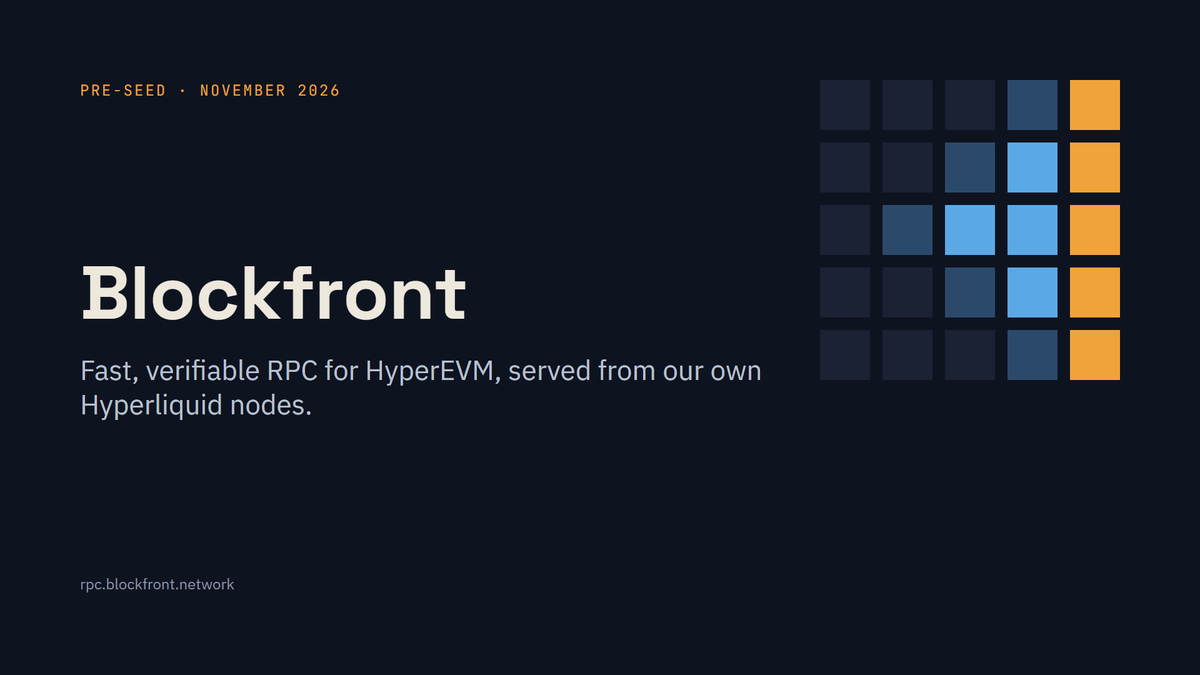
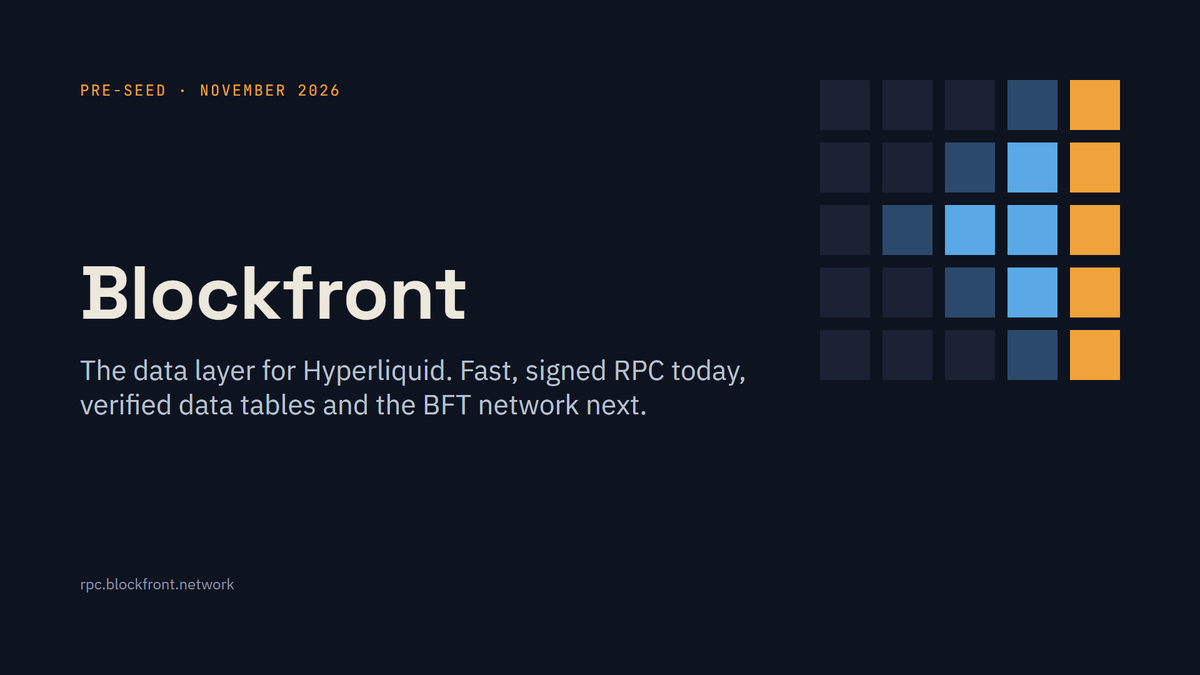
Data layer story, market, money, BFT

Changed region(s): [[0.0617, 0.5289, 0.6475, 0.6222]]

diff --git a/index.html b/index.html
@@ -40,7 +40,7 @@ html,body{margin:0;height:100%;background:#0B0F19;color:#EDE8DC;overflow:hidden}
 </style>
 </head>
 <body>
-<main id="viewport" aria-label="Blockfront pitch deck, 14 slides">
+<main id="viewport" aria-label="Blockfront pitch deck, 19 slides">
 <div id="stage">
 <section class="slide" id="s-cover" data-transition="fade" style="background:#0E1320;color:#EDE8DC;font-family:'IBM Plex Sans', Arial, sans-serif;padding:128px;display:flex;flex-direction:column;justify-content:space-between">
 <div style="position:absolute;left:1312px;top:128px;width:480px;height:480px;display:grid;grid-template-columns:repeat(5, 80px);grid-template-rows:repeat(5, 80px);gap:20px">
@@ -53,7 +53,7 @@ html,body{margin:0;height:100%;background:#0B0F19;color:#EDE8DC;overflow:hidden}
 <p style="font-family:'JetBrains Mono', 'Courier New', monospace;font-size:24px;letter-spacing:3px;color:#F0A33A">PRE-SEED · NOVEMBER 2026</p>
 <div style="display:flex;flex-direction:column;gap:32px;max-width:1100px">
 <h1 style="font-family:'Space Grotesk', Arial, sans-serif;font-size:120px;font-weight:700;line-height:1.05;color:#EDE8DC">Blockfront</h1>
-<p style="font-size:44px;line-height:1.25;color:#B9C1CF">Fast, verifiable RPC for HyperEVM, served from our own Hyperliquid nodes.</p>
+<p style="font-size:44px;line-height:1.25;color:#B9C1CF">The data layer for Hyperliquid. Fast, signed RPC today, verified data tables and the BFT network next.</p>
 </div>
 <p style="font-size:24px;color:#8A93A6">rpc.blockfront.network</p>
 
@@ -73,7 +73,7 @@ html,body{margin:0;height:100%;background:#0B0F19;color:#EDE8DC;overflow:hidden}
 </div>
 <div style="flex:1;display:flex;flex-direction:column;gap:16px;background:#FBF9F4;padding:40px;border:2px solid #DED7C8;border-radius:16px">
 <h3 style="font-family:'Space Grotesk', Arial, sans-serif;font-size:44px;font-weight:700;color:#121826">Stale, silently</h3>
-<p style="font-size:32px;line-height:1.4;color:#4A5263">Nothing tells you an answer is old. Confetti’s keeper ran for 11 hours on a node that had fallen behind before anyone noticed.</p>
+<p style="font-size:32px;line-height:1.4;color:#4A5263">Nothing tells you an answer is old, which node it came from, or whether another node would agree.</p>
 </div>
 </div>
 <div style="position:absolute;left:128px;right:128px;bottom:64px;display:flex;justify-content:space-between">
@@ -106,6 +106,29 @@ html,body{margin:0;height:100%;background:#0B0F19;color:#EDE8DC;overflow:hidden}
 </div>
 
 </section>
+<section class="slide" id="s-whynow" data-transition="fade" style="background:#F3EFE6;color:#121826;font-family:'IBM Plex Sans', Arial, sans-serif;padding:128px 128px 160px;display:flex;flex-direction:column;gap:56px">
+<h2 style="font-family:'Space Grotesk', Arial, sans-serif;font-size:72px;font-weight:700;line-height:1.1;color:#121826">Hyperliquid is where on-chain trading happens now</h2>
+<div style="display:flex;gap:32px">
+<div style="flex:1;display:flex;flex-direction:column;gap:12px;background:#121826;padding:48px 40px;border-radius:16px">
+<p style="font-family:'JetBrains Mono', 'Courier New', monospace;font-size:96px;font-weight:600;line-height:1.05;color:#F0A33A">$633B</p>
+<p style="font-size:28px;line-height:1.4;color:#B9C1CF">in perps traded on Hyperliquid in Q1 2026</p>
+</div>
+<div style="flex:1;display:flex;flex-direction:column;gap:12px;background:#121826;padding:48px 40px;border-radius:16px">
+<p style="font-family:'JetBrains Mono', 'Courier New', monospace;font-size:96px;font-weight:600;line-height:1.05;color:#F0A33A">$5.9B</p>
+<p style="font-size:28px;line-height:1.4;color:#B9C1CF">locked on the chain (June 2026)</p>
+</div>
+<div style="flex:1;display:flex;flex-direction:column;gap:12px;background:#121826;padding:48px 40px;border-radius:16px">
+<p style="font-family:'JetBrains Mono', 'Courier New', monospace;font-size:96px;font-weight:600;line-height:1.05;color:#5AA9E6">36%</p>
+<p style="font-size:28px;line-height:1.4;color:#B9C1CF">of all perp DEX volume, trailing 30 days (June 2026)</p>
+</div>
+</div>
+<p style="font-size:32px;line-height:1.4;color:#4A5263">HyperEVM is the programmable side of that chain. Every app built on it needs a fast RPC and clean data. That’s our market, and it’s growing with the chain.</p>
+<div style="position:absolute;left:128px;right:128px;bottom:64px;display:flex;justify-content:space-between">
+<p style="font-size:24px;color:#5E6575">Sources: DefiLlama via CoinLaw (TVL and share, June 2026); Q1 2026 volume as widely reported</p>
+<p style="font-size:24px;color:#5E6575">4</p>
+</div>
+
+</section>
 <section class="slide" id="s-how" data-transition="fade" style="background:#F3EFE6;color:#121826;font-family:'IBM Plex Sans', Arial, sans-serif;padding:128px 128px 160px;display:flex;flex-direction:column;gap:40px">
 <h2 style="font-family:'Space Grotesk', Arial, sans-serif;font-size:72px;font-weight:700;line-height:1.1;color:#121826">What happens to a request</h2>
 <div style="position:relative;width:1664px;height:520px">
@@ -131,10 +154,10 @@ html,body{margin:0;height:100%;background:#0B0F19;color:#EDE8DC;overflow:hidden}
 <p style="font-size:24px;color:#4A5263">rank 2, backup only</p>
 </div>
 </div>
-<p style="font-size:28px;line-height:1.4;color:#4A5263">The same nodes also run transformers (slide 7). Every 1,000 blocks each one publishes a fingerprint of its data, and we only serve data from nodes whose fingerprints match.</p>
+<p style="font-size:28px;line-height:1.4;color:#4A5263">The same nodes also run transformers (slide 8). Every 1,000 blocks each one publishes a fingerprint of its data, and we only serve data from nodes whose fingerprints match.</p>
 <div style="position:absolute;left:128px;right:128px;bottom:64px;display:flex;justify-content:space-between">
 <p style="font-size:24px;color:#5E6575">How it’s set up today, Nov 3</p>
-<p style="font-size:24px;color:#5E6575">4</p>
+<p style="font-size:24px;color:#5E6575">5</p>
 </div>
 
 </section>
@@ -162,7 +185,7 @@ html,body{margin:0;height:100%;background:#0B0F19;color:#EDE8DC;overflow:hidden}
 </div>
 <div style="position:absolute;left:128px;right:128px;bottom:64px;display:flex;justify-content:space-between">
 <p style="font-size:24px;color:#8A93A6">Measured on our Tokyo box, Nov 3, 03:13 to 21:55 UTC. Latency is measured on the box itself; real users add their own network time to both.</p>
-<p style="font-size:24px;color:#8A93A6">5</p>
+<p style="font-size:24px;color:#8A93A6">6</p>
 </div>
 
 </section>
@@ -195,7 +218,7 @@ html,body{margin:0;height:100%;background:#0B0F19;color:#EDE8DC;overflow:hidden}
 </div>
 <div style="position:absolute;left:128px;right:128px;bottom:64px;display:flex;justify-content:space-between">
 <p style="font-size:24px;color:#5E6575">Live endpoint, Nov 3 (signature shortened)</p>
-<p style="font-size:24px;color:#5E6575">6</p>
+<p style="font-size:24px;color:#5E6575">7</p>
 </div>
 
 </section>
@@ -221,6 +244,29 @@ html,body{margin:0;height:100%;background:#0B0F19;color:#EDE8DC;overflow:hidden}
 </div>
 </div>
 <p style="font-size:32px;line-height:1.4;color:#B9C1CF">For confetti, positions, fills, liquidations, deposits and points are one query away. Rebuilding the same data from raw logs used to take hours.</p>
+
+</section>
+<section class="slide" id="s-datamarket" data-transition="fade" style="background:#0E1320;color:#EDE8DC;font-family:'IBM Plex Sans', Arial, sans-serif;padding:128px 128px 160px;display:flex;flex-direction:column;gap:56px">
+<h2 style="font-family:'Space Grotesk', Arial, sans-serif;font-size:72px;font-weight:700;line-height:1.1;color:#EDE8DC">Blockchain data is already a billion-dollar category</h2>
+<div style="display:flex;gap:32px">
+<div style="flex:1;display:flex;flex-direction:column;gap:12px;background:#161D2E;padding:48px 40px;border-radius:16px">
+<p style="font-family:'JetBrains Mono', 'Courier New', monospace;font-size:96px;font-weight:600;line-height:1.05;color:#F0A33A">$1B</p>
+<p style="font-size:28px;line-height:1.4;color:#B9C1CF">Dune’s valuation at its $69.4M Series B</p>
+</div>
+<div style="flex:1;display:flex;flex-direction:column;gap:12px;background:#161D2E;padding:48px 40px;border-radius:16px">
+<p style="font-family:'JetBrains Mono', 'Courier New', monospace;font-size:96px;font-weight:600;line-height:1.05;color:#F0A33A">6.49B</p>
+<p style="font-size:28px;line-height:1.4;color:#B9C1CF">queries served by The Graph in a single quarter</p>
+</div>
+<div style="flex:1;display:flex;flex-direction:column;gap:12px;background:#161D2E;padding:48px 40px;border-radius:16px">
+<p style="font-family:'JetBrains Mono', 'Courier New', monospace;font-size:96px;font-weight:600;line-height:1.05;color:#5AA9E6">$20M</p>
+<p style="font-size:28px;line-height:1.4;color:#B9C1CF">Goldsky’s seed round for blockchain indexing</p>
+</div>
+</div>
+<p style="font-size:32px;line-height:1.4;color:#B9C1CF">Every HyperEVM app rebuilds the same tables: trades, positions, balances, deposits. We build them once, check them on every node, and sell them by the query. <span style="color:#EDE8DC">That’s the bigger business, and on HyperEVM it’s still up for grabs.</span></p>
+<div style="position:absolute;left:128px;right:128px;bottom:64px;display:flex;justify-content:space-between">
+<p style="font-size:24px;color:#8A93A6">Sources: The Block (Dune, Feb 2022); Messari via press (The Graph, Q2 2025); BetaKit (Goldsky, Sept 2022)</p>
+<p style="font-size:24px;color:#8A93A6">9</p>
+</div>
 
 </section>
 <section class="slide" id="s-caught" data-transition="fade" style="background:#F0A33A;color:#121826;font-family:'IBM Plex Sans', Arial, sans-serif;padding:128px;display:flex;flex-direction:column;justify-content:space-between">
@@ -274,7 +320,7 @@ html,body{margin:0;height:100%;background:#0B0F19;color:#EDE8DC;overflow:hidden}
 </div>
 <div style="position:absolute;left:128px;right:128px;bottom:64px;display:flex;justify-content:space-between">
 <p style="font-size:24px;color:#8A93A6">Indexed from block 48,404,443, when confetti’s first contract went live</p>
-<p style="font-size:24px;color:#8A93A6">9</p>
+<p style="font-size:24px;color:#8A93A6">11</p>
 </div>
 
 </section>
@@ -292,7 +338,7 @@ html,body{margin:0;height:100%;background:#0B0F19;color:#EDE8DC;overflow:hidden}
 </div>
 <div style="position:absolute;left:128px;right:128px;bottom:64px;display:flex;justify-content:space-between">
 <p style="font-size:24px;color:#5E6575">*Demo numbers. These screenshots use test data, not real usage.</p>
-<p style="font-size:24px;color:#5E6575">10</p>
+<p style="font-size:24px;color:#5E6575">12</p>
 </div>
 
 </section>
@@ -314,26 +360,115 @@ html,body{margin:0;height:100%;background:#0B0F19;color:#EDE8DC;overflow:hidden}
 <p style="font-size:24px;line-height:1.4;color:#4A5263">“All” means realtime, archive and transformers. A plan runs 30 days per payment, and paying again extends it.</p>
 <div style="position:absolute;left:128px;right:128px;bottom:64px;display:flex;justify-content:space-between">
 <p style="font-size:24px;color:#5E6575">Competitor prices from chainstack.com and quicknode.com pricing pages, Nov 2026</p>
-<p style="font-size:24px;color:#5E6575">11</p>
+<p style="font-size:24px;color:#5E6575">13</p>
+</div>
+
+</section>
+<section class="slide" id="s-money" data-transition="fade" style="background:#F3EFE6;color:#121826;font-family:'IBM Plex Sans', Arial, sans-serif;padding:128px 128px 160px;display:flex;flex-direction:column;gap:40px">
+<h2 style="font-family:'Space Grotesk', Arial, sans-serif;font-size:72px;font-weight:700;line-height:1.1;color:#121826">How Blockfront makes money</h2>
+<div style="display:flex;gap:48px">
+<div style="flex:1;display:flex;flex-direction:column;gap:8px;border-left:6px solid #F0A33A;padding:4px 0 4px 28px">
+<h3 style="font-family:'Space Grotesk', Arial, sans-serif;font-size:40px;font-weight:700;color:#121826">RPC plans</h3>
+<p style="font-size:28px;line-height:1.4;color:#4A5263">Live today: 29, 149 and 399 USDC a month, paid on-chain from the customer’s wallet.</p>
+</div>
+<div style="flex:1;display:flex;flex-direction:column;gap:8px;border-left:6px solid #5AA9E6;padding:4px 0 4px 28px">
+<h3 style="font-family:'Space Grotesk', Arial, sans-serif;font-size:40px;font-weight:700;color:#121826">Data queries</h3>
+<p style="font-size:28px;line-height:1.4;color:#4A5263">Every query on a transformer is paid. The publisher, the nodes serving it and Blockfront each take a share.</p>
+</div>
+</div>
+<table style="font-family:'IBM Plex Sans', Arial, sans-serif;font-size:28px;color:#121826">
+<tr style="background:#121826"><th style="width:20%;text-align:right;color:#EDE8DC">Paying teams</th><th style="width:32%;text-align:right;color:#EDE8DC">Builder / Pro / Scale</th><th style="width:22%;text-align:right;color:#EDE8DC">Monthly</th><th style="width:26%;text-align:right;color:#EDE8DC">Yearly</th></tr>
+<tr style="background:#FBF9F4"><td style="text-align:right">100</td><td style="text-align:right">60 / 30 / 10</td><td style="text-align:right">$10,200</td><td style="text-align:right">$122,400</td></tr>
+<tr style="background:#F3EFE6"><td style="text-align:right">1,000</td><td style="text-align:right">600 / 300 / 100</td><td style="text-align:right">$102,000</td><td style="text-align:right">$1.22M</td></tr>
+<tr style="background:#FBF9F4"><td style="text-align:right">5,000</td><td style="text-align:right">3,000 / 1,500 / 500</td><td style="text-align:right">$510,000</td><td style="text-align:right">$6.12M</td></tr>
+</table>
+<p style="font-size:28px;line-height:1.4;color:#4A5263">That’s RPC plans alone, at today’s prices. <span style="color:#121826">Data queries come on top, and they grow with every app that ships on HyperEVM.</span></p>
+<div style="position:absolute;left:128px;right:128px;bottom:64px;display:flex;justify-content:space-between">
+<p style="font-size:24px;color:#5E6575">Illustrative scenarios at today’s plan prices, not forecasts</p>
+<p style="font-size:24px;color:#5E6575">14</p>
+</div>
+
+</section>
+<section class="slide" id="s-token" data-transition="fade" style="background:#0E1320;color:#EDE8DC;font-family:'IBM Plex Sans', Arial, sans-serif;padding:128px 128px 160px;display:flex;flex-direction:column;gap:48px">
+<div style="display:flex;flex-direction:column;gap:16px">
+<h2 style="font-family:'Space Grotesk', Arial, sans-serif;font-size:72px;font-weight:700;line-height:1.1;color:#EDE8DC">BFT: the token that keeps the network honest</h2>
+<p style="font-size:32px;line-height:1.4;color:#B9C1CF">Customers keep paying in USDC. BFT is what everyone who runs, publishes or vouches for data puts on the line.</p>
+</div>
+<div style="display:grid;grid-template-columns:1fr 1fr;gap:40px 64px">
+<div style="display:flex;flex-direction:column;gap:10px;border-top:4px solid #F0A33A;padding:24px 0 0 0">
+<h3 style="font-size:36px;font-weight:600;color:#EDE8DC">Stake to run a node</h3>
+<p style="font-size:28px;line-height:1.4;color:#B9C1CF">Operators stake BFT to serve traffic and get paid for it. Stale or wrong answers cost them stake.</p>
+</div>
+<div style="display:flex;flex-direction:column;gap:10px;border-top:4px solid #F0A33A;padding:24px 0 0 0">
+<h3 style="font-size:36px;font-weight:600;color:#EDE8DC">Stake to publish data</h3>
+<p style="font-size:28px;line-height:1.4;color:#B9C1CF">Listing a transformer takes a BFT stake, so junk costs money to post.</p>
+</div>
+<div style="display:flex;flex-direction:column;gap:10px;border-top:4px solid #5AA9E6;padding:24px 0 0 0">
+<h3 style="font-size:36px;font-weight:600;color:#EDE8DC">Curate and earn</h3>
+<p style="font-size:28px;line-height:1.4;color:#B9C1CF">Back the transformers you trust with BFT and share in the query fees they bring in.</p>
+</div>
+<div style="display:flex;flex-direction:column;gap:10px;border-top:4px solid #5AA9E6;padding:24px 0 0 0">
+<h3 style="font-size:36px;font-weight:600;color:#EDE8DC">Settle disputes</h3>
+<p style="font-size:28px;line-height:1.4;color:#B9C1CF">When nodes disagree, the fingerprints decide, and the side that was wrong is slashed.</p>
+</div>
+</div>
+<div style="position:absolute;left:128px;right:128px;bottom:64px;display:flex;justify-content:space-between">
+<p style="font-size:24px;color:#8A93A6">BFT is not live yet. Design draft; final terms with counsel.</p>
+<p style="font-size:24px;color:#8A93A6">15</p>
+</div>
+
+</section>
+<section class="slide" id="s-tokenflow" data-transition="fade" style="background:#F3EFE6;color:#121826;font-family:'IBM Plex Sans', Arial, sans-serif;padding:128px 128px 160px;display:flex;flex-direction:column;gap:40px">
+<h2 style="font-family:'Space Grotesk', Arial, sans-serif;font-size:72px;font-weight:700;line-height:1.1;color:#121826">Every query feeds BFT</h2>
+<div style="position:relative;width:1664px;height:420px">
+<svg class="conn" width="1664" height="420" viewBox="0 0 1664 420" aria-hidden="true"><defs><marker id="ah0" viewBox="0 0 10 10" refX="9" refY="5" markerWidth="5" markerHeight="5" orient="auto-start-reverse"><path d="M0,0 L10,5 L0,10 z" fill="#121826"/></marker><marker id="ah1" viewBox="0 0 10 10" refX="9" refY="5" markerWidth="5" markerHeight="5" orient="auto-start-reverse"><path d="M0,0 L10,5 L0,10 z" fill="#F0A33A"/></marker></defs><path d="M340.0,210.0 L480.0,210.0" fill="none" stroke="#121826" stroke-width="3" marker-end="url(#ah0)"/><path d="M780.0,190.0 L850.0,190.0 L850.0,46.0 L920.0,46.0" fill="none" stroke="#121826" stroke-width="3" marker-end="url(#ah0)"/><path d="M780.0,205.0 L850.0,205.0 L850.0,154.0 L920.0,154.0" fill="none" stroke="#121826" stroke-width="3" marker-end="url(#ah0)"/><path d="M780.0,215.0 L850.0,215.0 L850.0,262.0 L920.0,262.0" fill="none" stroke="#121826" stroke-width="3" marker-end="url(#ah0)"/><path d="M780.0,230.0 L850.0,230.0 L850.0,370.0 L920.0,370.0" fill="none" stroke="#F0A33A" stroke-width="3" marker-end="url(#ah1)"/></svg>
+<div style="position:absolute;left:0px;top:150px;width:340px;height:120px;background:#FBF9F4;border:2px solid #DED7C8;border-radius:16px;padding:24px;display:flex;flex-direction:column;justify-content:center;gap:6px">
+<p style="font-family:'Space Grotesk', Arial, sans-serif;font-size:32px;font-weight:700;color:#121826">Apps pay in USDC</p>
+<p style="font-size:24px;color:#4A5263">for RPC and data</p>
+</div>
+<div style="position:absolute;left:480px;top:140px;width:300px;height:140px;background:#121826;border-radius:16px;padding:28px;display:flex;flex-direction:column;justify-content:center;gap:6px">
+<p style="font-family:'Space Grotesk', Arial, sans-serif;font-size:32px;font-weight:700;color:#EDE8DC">Query fee</p>
+<p style="font-size:24px;color:#B9C1CF">split on every call</p>
+</div>
+<div style="position:absolute;left:920px;top:0px;width:744px;height:92px;background:#FBF9F4;border:2px solid #DED7C8;border-radius:14px;padding:0 28px;display:flex;flex-direction:row;align-items:center;gap:20px">
+<p style="font-family:'Space Grotesk', Arial, sans-serif;font-size:30px;font-weight:700;color:#121826">Publisher</p>
+<p style="font-size:26px;color:#4A5263">for building the transformer</p>
+</div>
+<div style="position:absolute;left:920px;top:108px;width:744px;height:92px;background:#FBF9F4;border:3px solid #5AA9E6;border-radius:14px;padding:0 28px;display:flex;flex-direction:row;align-items:center;gap:20px">
+<p style="font-family:'Space Grotesk', Arial, sans-serif;font-size:30px;font-weight:700;color:#121826">Operators</p>
+<p style="font-size:26px;color:#4A5263">staked BFT, for serving it</p>
+</div>
+<div style="position:absolute;left:920px;top:216px;width:744px;height:92px;background:#FBF9F4;border:3px solid #5AA9E6;border-radius:14px;padding:0 28px;display:flex;flex-direction:row;align-items:center;gap:20px">
+<p style="font-family:'Space Grotesk', Arial, sans-serif;font-size:30px;font-weight:700;color:#121826">Curators</p>
+<p style="font-size:26px;color:#4A5263">staked BFT, for backing it</p>
+</div>
+<div style="position:absolute;left:920px;top:324px;width:744px;height:92px;background:#121826;border:3px solid #F0A33A;border-radius:14px;padding:0 28px;display:flex;flex-direction:row;align-items:center;gap:20px">
+<p style="font-family:'Space Grotesk', Arial, sans-serif;font-size:30px;font-weight:700;color:#F0A33A">Burn</p>
+<p style="font-size:26px;color:#EDE8DC">a slice buys BFT on the market and burns it</p>
+</div>
+</div>
+<p style="font-size:32px;line-height:1.4;color:#4A5263">More apps mean more queries. More queries mean more fees to the people staking BFT, more stake needed to serve the traffic, and more BFT burned. <span style="color:#121826">Demand for the token grows with real use.</span></p>
+<div style="position:absolute;left:128px;right:128px;bottom:64px;display:flex;justify-content:space-between">
+<p style="font-size:24px;color:#5E6575">BFT is not live. Design draft, not an offer of tokens. Precedent: The Graph burns 1% of query fees.</p>
+<p style="font-size:24px;color:#5E6575">16</p>
 </div>
 
 </section>
 <section class="slide" id="s-landscape" data-transition="fade" style="background:#0E1320;color:#EDE8DC;font-family:'IBM Plex Sans', Arial, sans-serif;padding:128px 128px 160px;display:flex;flex-direction:column;gap:48px">
-<div style="display:flex;flex-direction:column;gap:16px">
 <h2 style="font-family:'Space Grotesk', Arial, sans-serif;font-size:72px;font-weight:700;line-height:1.1;color:#EDE8DC">Who else is in this space</h2>
-</div>
-<table style="font-family:'IBM Plex Sans', Arial, sans-serif;font-size:30px;color:#B9C1CF">
-<tr style="background:#161D2E"><th style="width:26%;color:#EDE8DC">Who</th><th style="width:74%;color:#EDE8DC">What they do</th></tr>
-<tr><td style="color:#EDE8DC">The Graph</td><td>The big indexing marketplace (subgraphs, indexers, curators, delegators)</td></tr>
-<tr><td style="color:#EDE8DC">SubQuery</td><td>Indexing network with its own token</td></tr>
-<tr><td style="color:#EDE8DC">Goldsky, Envio</td><td>Hosted indexing, no open marketplace</td></tr>
-<tr><td style="color:#EDE8DC">Pocket, Lava</td><td>Decentralized RPC, no indexing</td></tr>
-<tr style="background:#2A2416"><td style="color:#F0A33A">Blockfront</td><td style="color:#EDE8DC">RPC and transformers on the same HyperEVM nodes, signed, paid in USDC</td></tr>
+<table style="font-family:'IBM Plex Sans', Arial, sans-serif;font-size:26px;color:#B9C1CF">
+<tr style="background:#161D2E"><th style="width:27%;color:#EDE8DC">Who</th><th style="width:43%;color:#EDE8DC">What they do</th><th style="width:30%;color:#EDE8DC">On HyperEVM</th></tr>
+<tr><td style="color:#EDE8DC">Chainstack, QuickNode, dRPC</td><td>Hosted RPC, billed by credits or requests</td><td>Yes, one chain of many</td></tr>
+<tr><td style="color:#EDE8DC">Goldsky, Envio</td><td>Hosted indexing, no open marketplace</td><td>Yes, one chain of many</td></tr>
+<tr><td style="color:#EDE8DC">SubQuery</td><td>Indexing network with its own token</td><td>Yes, one chain of many</td></tr>
+<tr><td style="color:#EDE8DC">The Graph</td><td>The big indexing marketplace</td><td>Not that we could find</td></tr>
+<tr><td style="color:#EDE8DC">Pocket, Lava</td><td>Decentralized RPC, no indexing</td><td>Lava yes, Pocket not found</td></tr>
+<tr style="background:#2A2416"><td style="color:#F0A33A">Blockfront</td><td style="color:#EDE8DC">RPC and indexing on the same nodes, signed</td><td style="color:#F0A33A">HyperEVM only, our own hl-nodes</td></tr>
 </table>
-<p style="font-size:28px;line-height:1.4;color:#B9C1CF">The Graph proved people will pay for indexed data. We’re betting HyperEVM teams want it from the same nodes that serve their RPC.</p>
+<p style="font-size:28px;line-height:1.4;color:#B9C1CF">Everyone on this list added HyperEVM as one chain among dozens. We only do HyperEVM: our own Hyperliquid nodes, Tokyo first, every response signed.</p>
 <div style="position:absolute;left:128px;right:128px;bottom:64px;display:flex;justify-content:space-between">
-<p style="font-size:24px;color:#8A93A6">Sources: The Graph docs and each project’s own site</p>
-<p style="font-size:24px;color:#8A93A6">12</p>
+<p style="font-size:24px;color:#8A93A6">Sources: each provider’s own docs and chain lists, Nov 2026</p>
+<p style="font-size:24px;color:#8A93A6">17</p>
 </div>
 
 </section>
@@ -352,18 +487,18 @@ html,body{margin:0;height:100%;background:#0B0F19;color:#EDE8DC;overflow:hidden}
 <h3 style="font-family:'Space Grotesk', Arial, sans-serif;font-size:40px;font-weight:700;color:#121826">Next</h3>
 <p style="font-size:28px;line-height:1.4;color:#4A5263">An archive node, so old blocks come from us too</p>
 <p style="font-size:28px;line-height:1.4;color:#4A5263">Move confetti over (keeper, page, points)</p>
-<p style="font-size:28px;line-height:1.4;color:#4A5263">Final pricing</p>
+<p style="font-size:28px;line-height:1.4;color:#4A5263">Customers two and three after confetti</p>
 </div>
 <div style="flex:1;display:flex;flex-direction:column;gap:20px;background:#FBF9F4;padding:40px;border-top:8px solid #121826;border-radius:16px">
 <h3 style="font-family:'Space Grotesk', Arial, sans-serif;font-size:40px;font-weight:700;color:#121826">After that</h3>
-<p style="font-size:28px;line-height:1.4;color:#4A5263">Open the transformer market: anyone can publish one by staking</p>
-<p style="font-size:28px;line-height:1.4;color:#4A5263">Curators back the good ones and share the fees</p>
-<p style="font-size:28px;line-height:1.4;color:#4A5263">Nodes that publish bad fingerprints lose their stake</p>
+<p style="font-size:28px;line-height:1.4;color:#4A5263">Launch BFT: operators, publishers and curators stake to take part</p>
+<p style="font-size:28px;line-height:1.4;color:#4A5263">Open the transformer market to any publisher, fees split on every query</p>
+<p style="font-size:28px;line-height:1.4;color:#4A5263">Bad fingerprints lose their stake; a slice of every fee is burned</p>
 </div>
 </div>
 <div style="position:absolute;left:128px;right:128px;bottom:64px;display:flex;justify-content:space-between">
 <p style="font-size:24px;color:#5E6575">As of Nov 3</p>
-<p style="font-size:24px;color:#5E6575">13</p>
+<p style="font-size:24px;color:#5E6575">18</p>
 </div>
 
 </section>
@@ -391,7 +526,7 @@ html,body{margin:0;height:100%;background:#0B0F19;color:#EDE8DC;overflow:hidden}
 </main>
 <nav id="bar" aria-label="Slides">
 <button id="prev" type="button" aria-label="Previous slide">&#8592;</button>
-<span id="count" aria-live="polite">1 / 14</span>
+<span id="count" aria-live="polite">1 / 19</span>
 <button id="next" type="button" aria-label="Next slide">&#8594;</button>
 <button id="full" type="button" aria-label="Full screen">Full screen</button>
 </nav>
